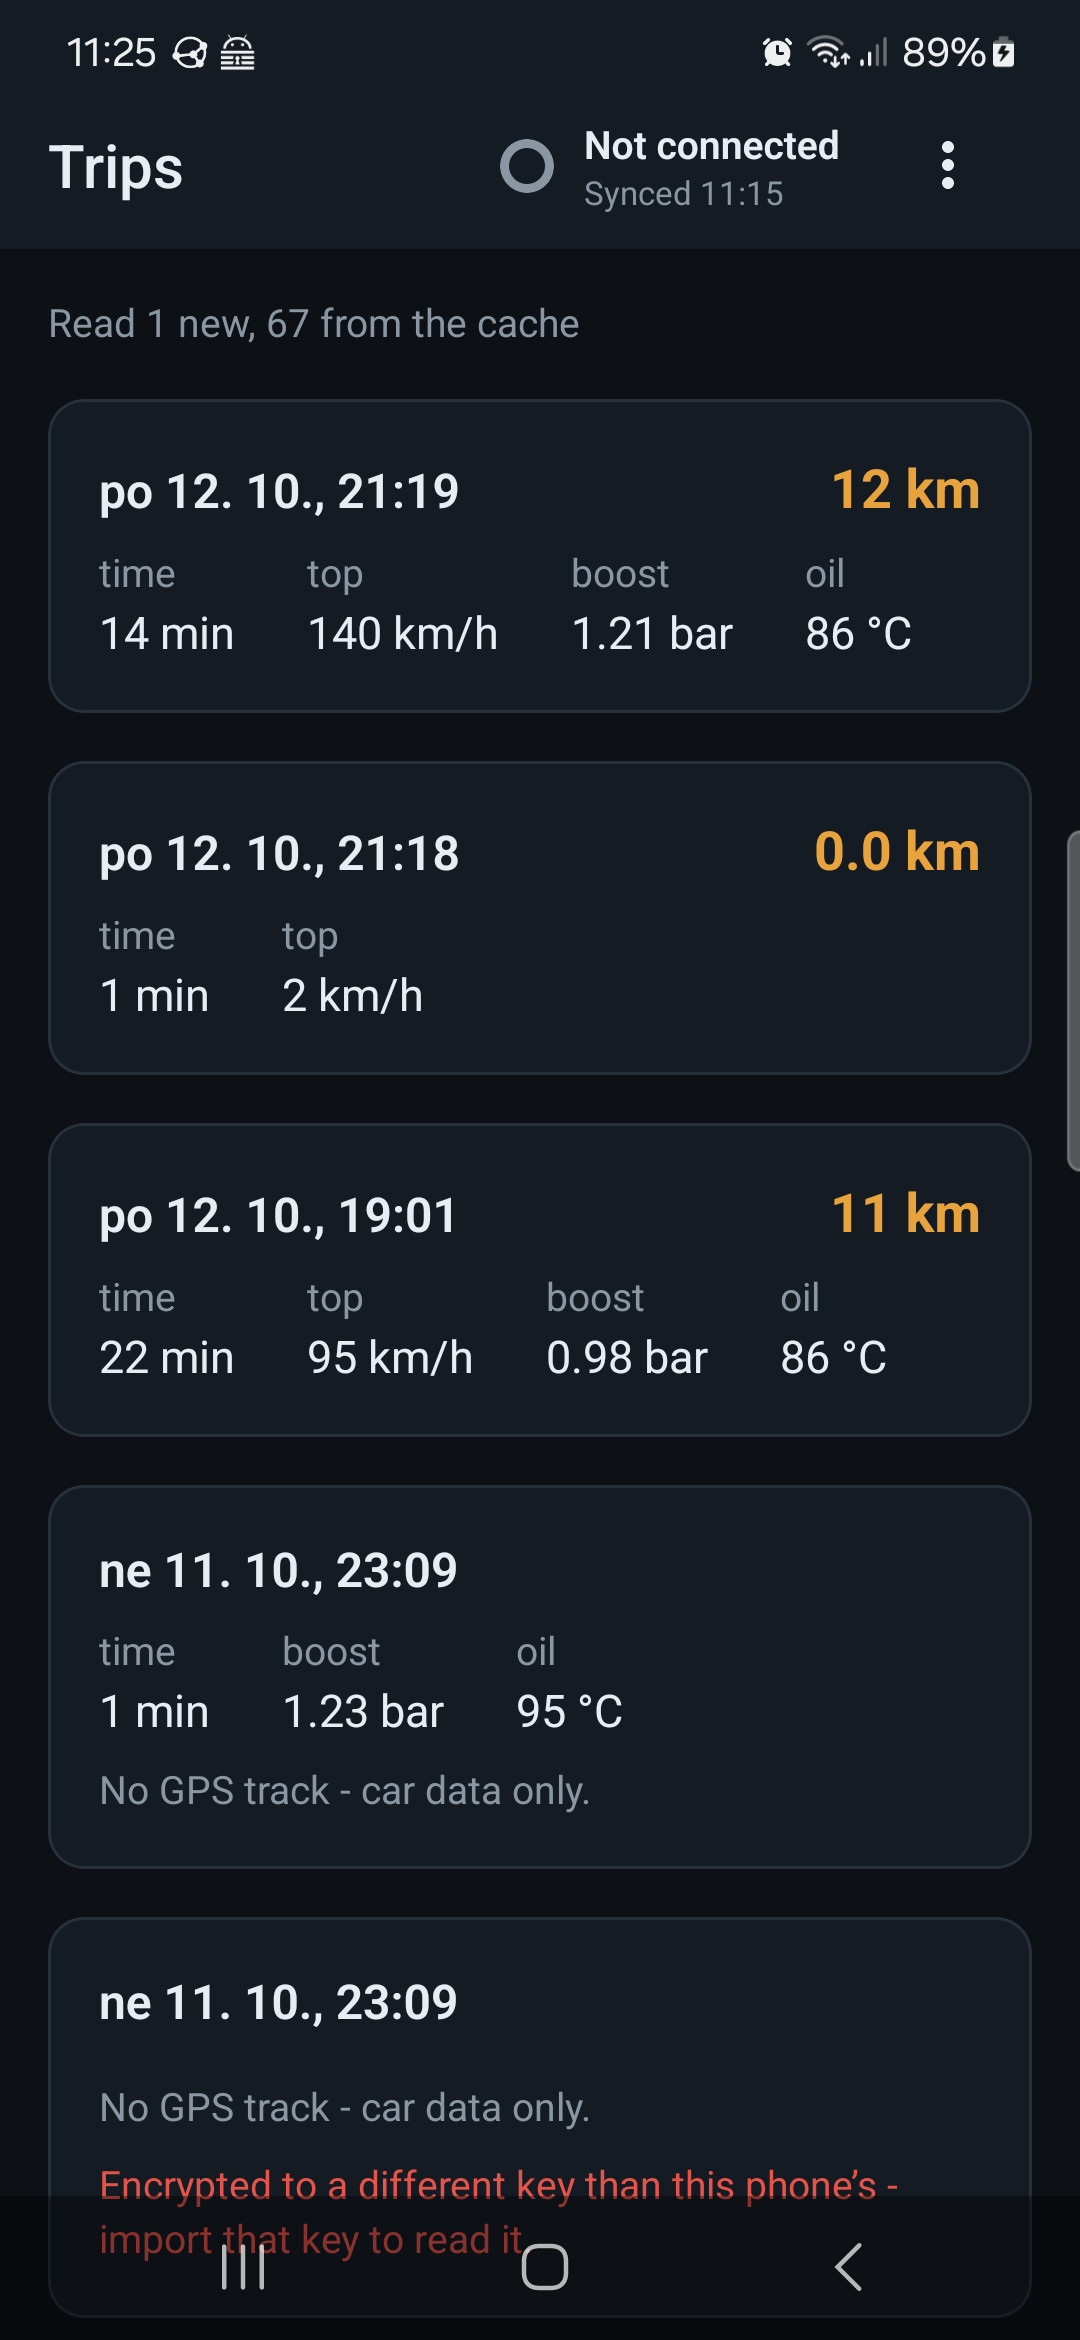
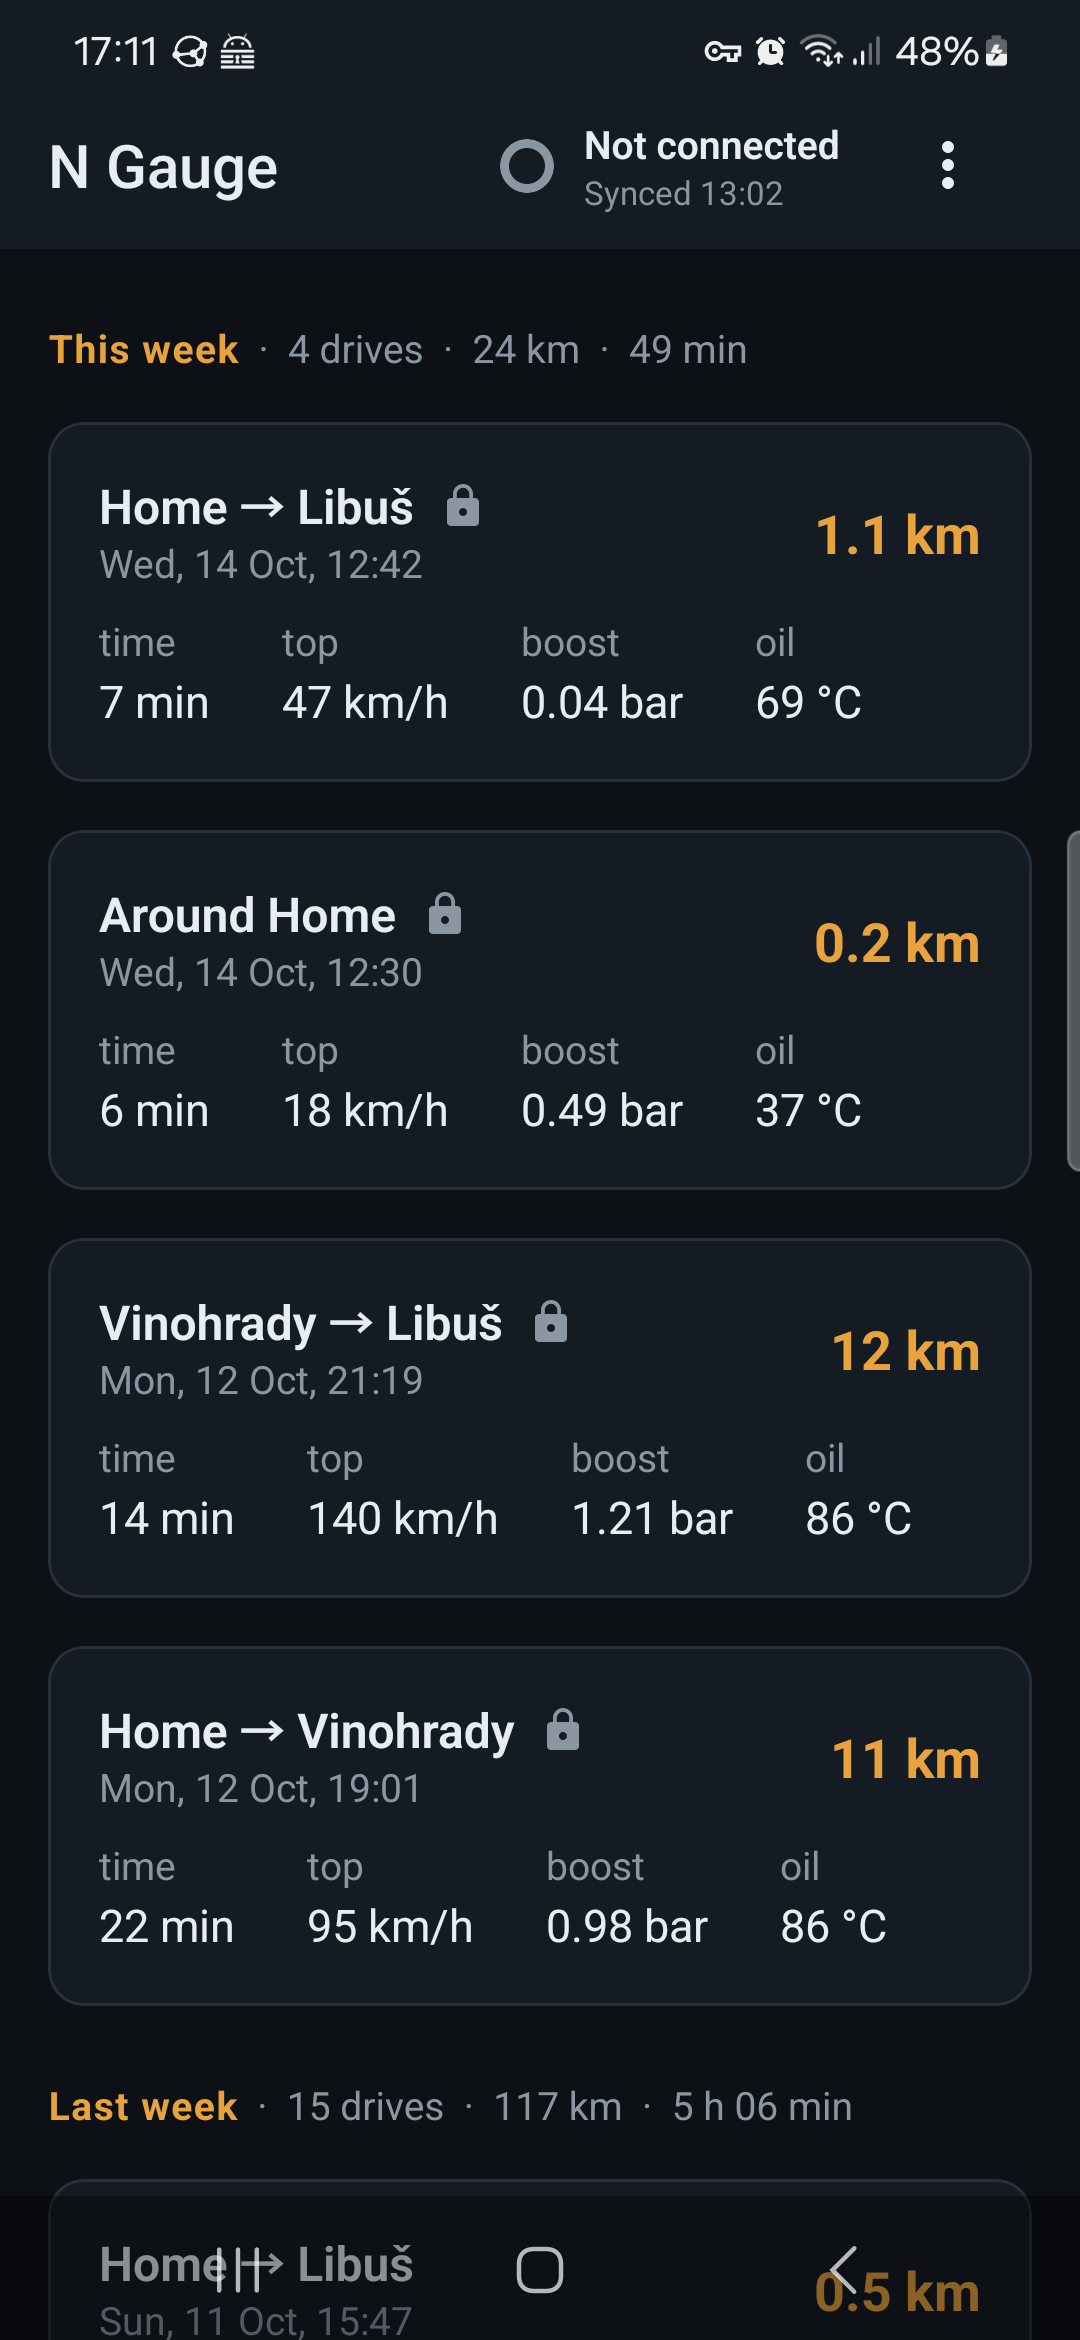
READMEs: up to date, with fresh screenshots
The main README's list of what it does gains drive names, weeks,
charts, delete, themes, Czech, log encryption, the N badge on waking
and the bench page; the voltage finding (PID 0x42, and its 0.00 V at
switch-off); GeoNames under the licence. The app's README: its screens
and files as they are now, /api/delete and how deleting works, and a
section on adding text (t(), the Czech test) and colours (useColors,
themed).

Screenshots from 2026-10-14: the list, Settings, a drive's map and its
charts, the Gauge screen in the car. Place names in them are made-up
ones and the map is zoomed away from both ends; a key fingerprint is
blurred. The gauge settings shot is the older one, renamed, until a
new one; the outdated menu and settings shots are gone.

diff --git a/mobile/README.md b/mobile/README.md
@@ -1,22 +1,24 @@
 # N Gauge — phone app
 
 Expo (SDK 57) app for the gauge: joins its WiFi, pulls the logs off its card
-by itself, shows each drive's stats and track on a map, decrypts encrypted
-logs, shows the gauge's live status, edits its settings and updates its
-firmware. Uploading the logs to [backend/](../backend) is built but switched
-off (`src/features.ts`).
+by itself, and shows every drive - named after where it went, grouped by
+week - with its track on a map and its readings as charts. It decrypts
+encrypted logs, deletes a drive from the phone and the gauge alike, shows
+the gauge's live status, edits its settings and updates its firmware.
+English or Czech; dark themes or light. Uploading the logs to
+[backend/](../backend) is built but switched off (`src/features.ts`).
 
 ## Screenshots
 
-Galaxy S22, 2026-10-13, the gauge on the bench (hence "Car: no answer"); the
-drives are real ones.
+Galaxy S22, 2026-10-14; the drives are real ones, their place names
+swapped for made-up ones and the map zoomed away from both ends.
 
 | | | |
 |---|---|---|
-| <img src="docs/screenshots/01-trips.png" width="240"> | <img src="docs/screenshots/03-trip-map.png" width="240"> | <img src="docs/screenshots/04-gauge.png" width="240"> |
-| Trips, the app's main screen. The gauge sits in the header, like a watch in Garmin Connect: its connection and when it last synced | A drive: the track, coloured by speed, and its stats | Tap the gauge: connection, the log sync (automatic on every connect), live status |
-| <img src="docs/screenshots/02-trips-menu.png" width="240"> | <img src="docs/screenshots/05-settings.png" width="240"> | <img src="docs/screenshots/06-settings-logging.png" width="240"> |
-| ⋮: Settings, and saving every log decrypted to a folder | Settings: log encryption, then the gauge's own settings | Log level, warnings, tyres, firmware upload |
+| <img src="docs/screenshots/01-trips.png" width="240"> | <img src="docs/screenshots/03-trip-map.png" width="240"> | <img src="docs/screenshots/07-drive-charts.png" width="240"> |
+| The main screen: every drive, named after where it went, by week. The gauge sits in the header, like a watch in Garmin Connect | A drive: the track, coloured by speed | Its readings over the drive - drag to read them at any moment |
+| <img src="docs/screenshots/04-gauge.png" width="240"> | <img src="docs/screenshots/02-settings.png" width="240"> | <img src="docs/screenshots/05-gauge-settings.png" width="240"> |
+| Tap the gauge: connection, live readings in the car, the log sync | Settings: language, theme, log encryption, your places | The gauge's own settings (an older shot, from before they had a screen of their own) |
 
 Android only. Joining the gauge's AP from an app needs `WifiNetworkSpecifier`,
 which is what the local module `modules/pod-wifi` wraps; iOS has no equivalent
@@ -37,7 +39,12 @@ gauge "the pod" (`usePod`, `pod.ts`, `PodChip`); the app says gauge.
 - **Endpoints used:** `/api/live`, `/api/settings`, `/save` (form-encoded,
   keyed by the form names - see `src/lib/settings-schema.ts`), `/api/clock`,
   `/update`, `/api/files` (the card, paged JSON), `/dl` (with `Range`, for
-  a log that grew since the last sync).
+  a log that grew since the last sync), `/api/delete` (a drive's logs, from
+  the app's Delete).
+- **Deleting:** a drive deleted on the phone goes on a delete-on-gauge list;
+  every sync deletes those on the gauge first and never pulls them back
+  meanwhile - so deleting while not connected just waits for the next
+  connect.
 - **Sync:** on every connect, from any screen (`src/hooks/use-sync.tsx`):
   list the card, pull what is new or grew. The gauge serves one request at a
   time, so the live readout pauses meanwhile, and saving settings or a
@@ -50,19 +57,39 @@ gauge "the pod" (`usePod`, `pod.ts`, `PodChip`); the app says gauge.
 
 | Path | What |
 |---|---|
-| `src/app/index.tsx` | Trips: every drive on the phone - the main screen, no tabs |
-| `src/app/trip/[key].tsx` | A drive: map, stats, share or save its logs |
-| `src/app/gauge.tsx` | The gauge: connect, the log sync, live status, clock, g-meter zero |
-| `src/app/settings.tsx` | Log encryption; the gauge's settings table, firmware upload |
+| `src/app/index.tsx` | N Gauge: every drive on the phone, by week - the main screen, no tabs |
+| `src/app/trip/[key].tsx` | A drive: map, charts, stats; rename, share, save or delete it |
+| `src/app/name.tsx` | Naming a drive, or one of its ends as a place of yours |
+| `src/app/gauge.tsx` | The gauge: connect, live status, the log sync, clock, g-meter zero |
+| `src/app/gauge-settings.tsx` | The gauge's settings table, its screens' order, firmware upload |
+| `src/app/settings.tsx` | The phone's: language, theme, log encryption, logs folder, your places |
 | `src/app/scan.tsx` | QR scan for the WiFi credentials |
 | `src/components/pod-chip.tsx` | The gauge in the header: connection and sync at a glance |
+| `src/components/drive-chart.tsx` | Speed, boost, temperatures, voltage over a drive (react-native-svg) |
 | `src/hooks/use-sync.tsx` | The sync, run by itself on every connect |
 | `src/lib/pod.ts` | HTTP client for the gauge |
-| `src/lib/store.ts` | Credentials and the inbox (the pulled logs) |
+| `src/lib/store.ts` | Credentials, the inbox (the pulled logs), the delete-on-gauge list |
+| `src/lib/trip-cache.ts` | Each log's summary, thinned track and chart series, cached by size |
 | `src/lib/trips.ts` | Parsing GPX / CSV, pairing a drive's files by session - pure, tested |
+| `src/lib/series.ts`, `weeks.ts` | A drive's readings for the charts; the list's weeks - pure, tested |
+| `src/lib/places.ts`, `names.ts` | Naming a drive from the place lists and your own places |
+| `assets/places/` | GeoNames place lists, CZ and neighbours (`scripts/make-places.ts`) |
 | `src/lib/sync-plan.ts` | What to pull, by `{name, size}` - pure, tested |
 | `src/lib/settings-schema.ts` | ⚠ Copy of the firmware's `settings_table` - change both |
+| `src/i18n/` | The app's words: English as the key, Czech in `cs/` |
+| `src/theme.ts` | The themes' colours; `useColors()` and `themed()` styles |
 | `modules/pod-wifi` | Kotlin: WifiNetworkSpecifier + process binding |
+
+## Words and colours
+
+- **Text** goes through `t('English text')` (`src/i18n`): the English is the
+  key, the Czech lives in `src/i18n/cs/`. Counts are `tn(n, '1 drive',
+  '{n} drives')` - Czech has three forms. Text in a table built at load time
+  is marked `N_('...')` and shown with `t()`. `npm test` fails on any text
+  without its Czech, or with placeholders that differ.
+- **Colours** come from `useColors()`, styles from `themed((C) =>
+  StyleSheet.create(...))` - never a StyleSheet with colours made at import,
+  which would keep the first theme's.
 
 ## Run
 
@@ -95,7 +122,7 @@ After changing anything under `modules/` rebuild; JS changes hot-reload.
 ## Check
 
 ```sh
-npm test            # node:test on src/lib (no React Native needed)
+npm test            # node:test on src/lib and src/i18n (no React Native needed)
 npm run typecheck
 npm run lint
 ```

diff --git a/README.md b/README.md
@@ -22,14 +22,15 @@ someone with the same car or the same board.
 
 <p>
 <img src="mobile/docs/screenshots/01-trips.png" width="32%">
-<img src="mobile/docs/screenshots/03-trip-map.png" width="32%">
+<img src="mobile/docs/screenshots/07-drive-charts.png" width="32%">
 <img src="mobile/docs/screenshots/04-gauge.png" width="32%">
 </p>
 
-*The phone app: every drive, with the gauge in the header - its connection
-and last sync, like a watch in Garmin Connect; a drive's track coloured by
-speed; and a tap on the gauge for the sync and its live readings (on the
-bench, hence "no answer"). More in [mobile/](mobile).*
+*The phone app: every drive, named after where it went and grouped by week,
+with the gauge in the header - its connection and last sync, like a watch in
+Garmin Connect; a drive's speed, boost, temperatures and voltage over time;
+and a tap on the gauge for its live readings in the car. More in
+[mobile/](mobile).*
 
 ## What it does
 
@@ -37,14 +38,22 @@ bench, hence "no answer"). More in [mobile/](mobile).*
   ready" state and over-temperature warnings), boost, a g-meter, the four tyre
   pressures and temperatures, GPS speed and trip distance, a lap timer that
   finds the start/finish line by itself (tap START in the pit, then drive).
-- **Logging:** a CSV of every drive (2 Hz, decoded values plus the raw
-  payloads), a GPX track at 25 Hz, a sleep log.
+- **Logging:** a CSV of every drive (2 Hz, decoded values - battery voltage
+  among them - plus the raw payloads), a GPX track at 25 Hz, a sleep log.
+  Logs can be encrypted to a key only the phone holds, so a card taken out
+  of the gauge gives nothing away.
+- **Waking up:** the N badge until the car answers, so the gauges never
+  show a row of dashes; with a PC on USB, a status page for the desk.
 - **Power:** deep sleep when the car goes quiet, ~11 mA parked (about 57
   days on the battery); wakes on CAN activity, the button, or the door
   opening (the IMU's wake-on-motion).
 - **Phone:** its own WiFi access point with settings pages, OTA firmware
   updates with rollback, and an Android app ([mobile/](mobile)) that joins it
-  from a QR code on the gauge, syncs the logs, and shows trips on a map.
+  from a QR code on the gauge and syncs the logs by itself. Each drive is
+  named after where it started and ended (offline, from GeoNames - your own
+  places like "Home" win), grouped by week, with its track on a map and its
+  speed, boost, temperatures and voltage as charts. Delete a drive and it
+  goes from the gauge too. English or Czech; dark themes or light.
 
 ## Hardware
 
@@ -76,6 +85,10 @@ the wrong turns, are in [DECISIONS.md](DECISIONS.md).
   there.
 - **Gear** is derived from rpm ÷ speed; the measured ratios are in
   `config.h`.
+- **Battery / charging voltage** is plain Mode 01 PID `0x42`: 14.4-15.0 V
+  running, 9.9-10.6 V cranking, 12.1-12.7 V just after switching off. Then
+  the ECU answers **0.00 V** for a few seconds before going quiet - drop
+  it, it is not the battery.
 
 ## Repository
 
@@ -120,4 +133,6 @@ cd mobile && ./scripts/build-apk.sh install   # release APK onto a phone over ad
 ## Licence
 
 [MIT](LICENSE). Third-party assets keep their own licences - see
-[firmware/assets/README.md](firmware/assets/README.md).
+[firmware/assets/README.md](firmware/assets/README.md). The place names in
+the app (`mobile/assets/places`) are from [GeoNames](https://www.geonames.org),
+CC BY 4.0.
